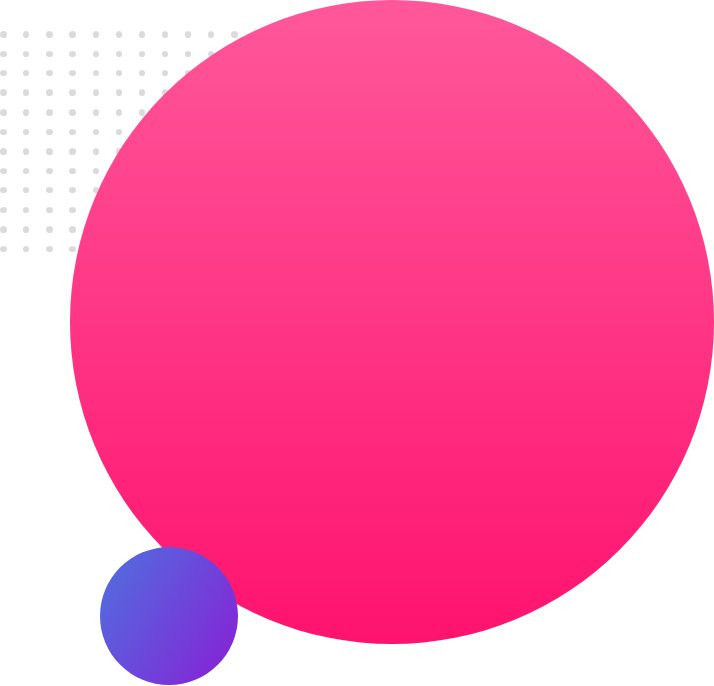
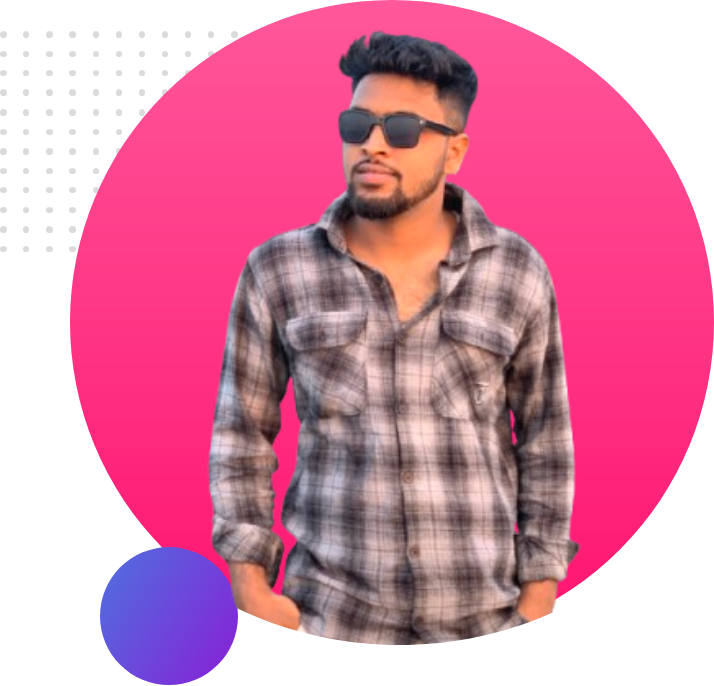
new

diff --git a/index.html b/index.html
@@ -10,16 +10,31 @@
     <link rel="stylesheet" href="style.css">
 </head>
 <body>
-   <section>
+   <section class="top-banner">
     <div class="half-width">
          <h1> Welcome To </h1>
     <h1><span class="name">Asif</span> Website</h1>
     <h3>{ World Class Web Developer}</h3>
     <P> Hay! My name is Asif. I am a web Developer.Once I loved cricket but at the age of marry I understood that nobody will pay me for that.So I decided to become a web developer.And Now I just love this work.</P>
+    <a class="link-button" target="_blank" href="https://www.facebook.com/lk.asif.9">HIRE ME</a>
     </div>
     <div class="half-width">
     <img src="images/image 11 (1).png">
     </div>
+   </section>
+   <section class="dream-area">
+    <div class="half-width">
+        <img src="images/my-bg2.png">
+
+    </div>
+    <div class="half-width">
+        <h2> Dream Big </h2>
+        <h3> Became a Web Developer </h3>
+        <p> I already Learnd the basic HTML and CSS.I can build any Website.I can even teach my brother how to make a website.My goal is to build 3 website and learnd advanced topic</p>
+        <a class="link-button" target="_blank" href="https://www.facebook.com/lk.asif.9"> DISCOVER ME</a>
+
+    </div>
+
    </section>
 </body>
 </html>

diff --git a/style.css b/style.css
@@ -1,4 +1,5 @@
 body{
+    margin: 0px;
      font-family: "Poppins", sans-serif;
 }
 .name{
@@ -6,11 +7,42 @@ body{
 }
 .half-width{
     width: 40%;
-    float: left;
+     float: left;
     margin-left: 5%;
    padding-left: 2%;
 }
 .half-width img{
     width: 100%;
+}
+.top-banner{
+    background-image: url(images/top-banner.png);
+    background-repeat: no-repeat;
+   
+}
+section{
+    height: 500px;
+    padding-bottom: 50px;
+}
+.link-button{
+    text-decoration: none;
+    background-image: linear-gradient(45deg,lightsalmon,tomato);
+    padding: 10px 20px;
+    border-radius: 5px;
+    color: white;
+    font-weight: 700;
+}
+.dream-area{
+    background-image: url(images/dream-bg.png);
+    background-repeat: no-repeat;
+    background-position-x: right;
+}
+h1{
+    font-size: 50px;
+}
+h2{
+    font-size: 40px;
+}
+p{
+    color: dimgray;
 }
 }
